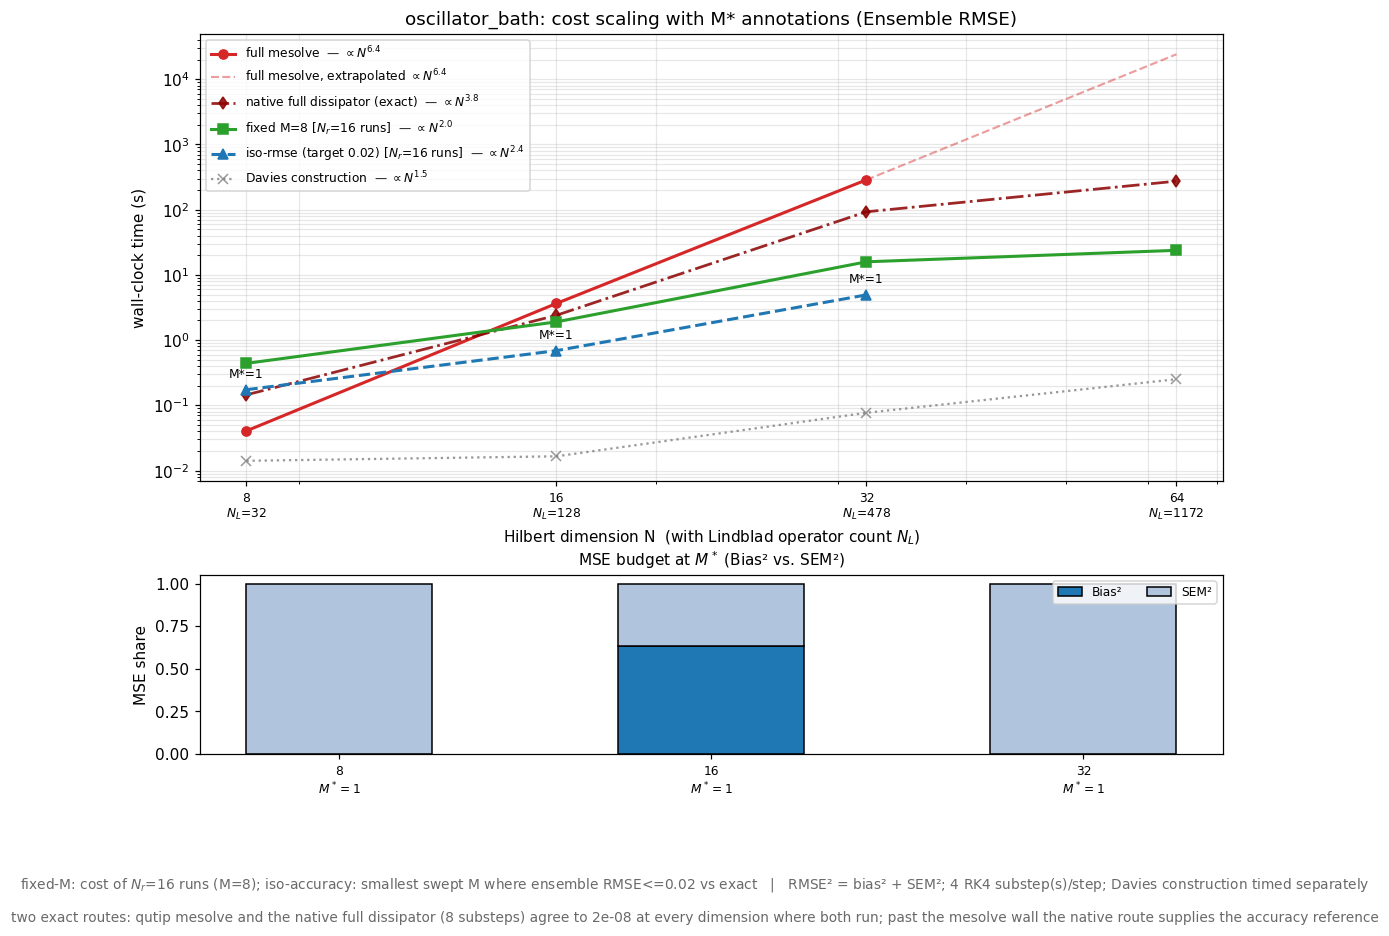
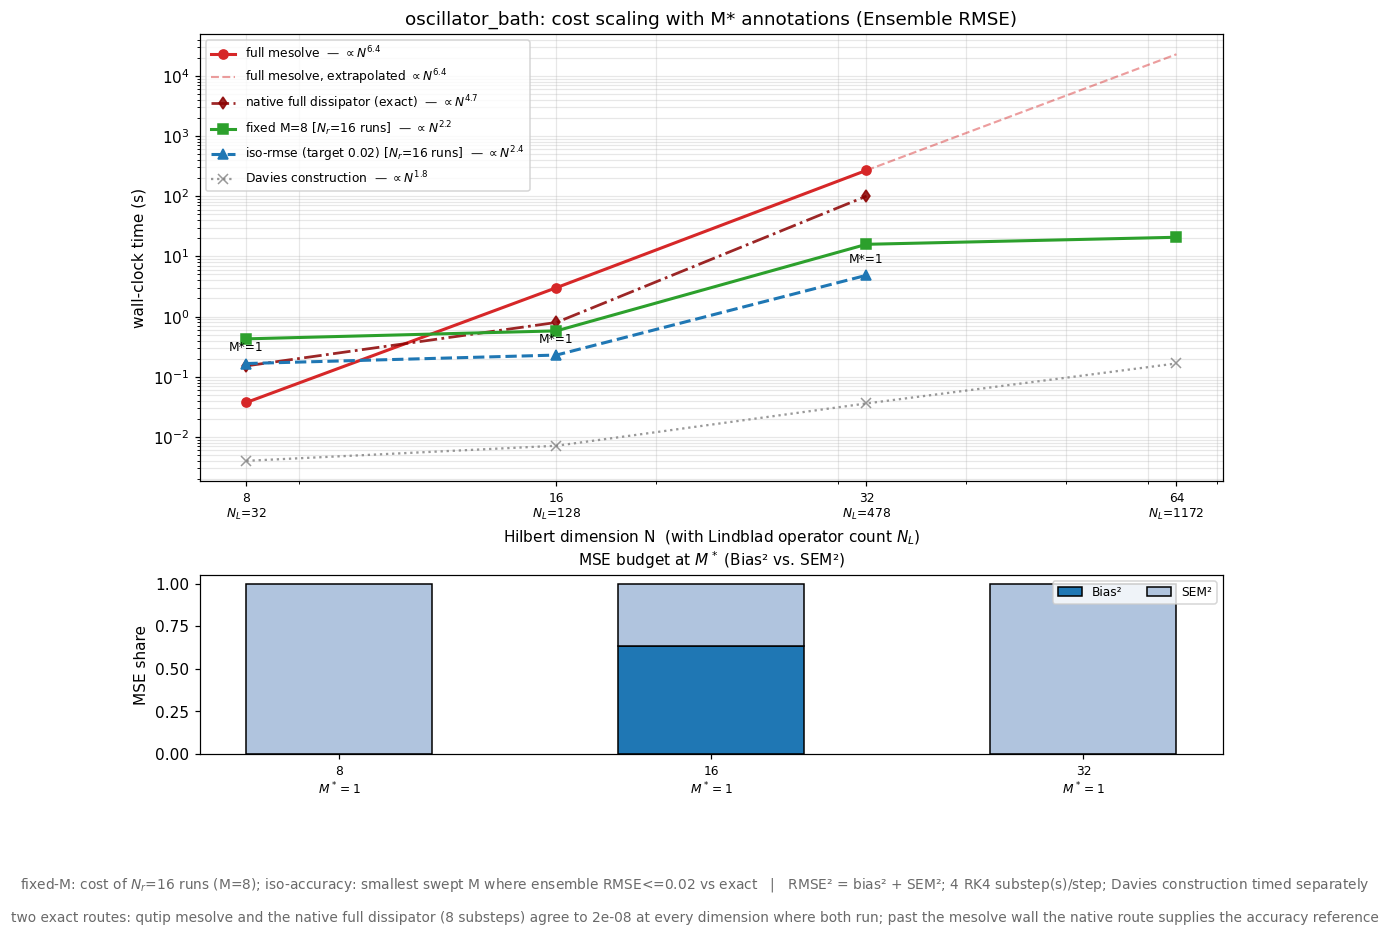
R2: plot native exact curve only at self-check-certified dimensions; regenerate oscillator under v19 enforcement

diff --git a/benchmarks/plot_cost_scaling.py b/benchmarks/plot_cost_scaling.py
@@ -180,7 +180,20 @@ def figure(name, doc, target, est_type, err_type):
         # better prefactor; it survives past the mesolve wall and is the
         # accuracy reference there. Its agreement with mesolve, wherever both
         # ran, is stated in the footer.
-        t_nat = as_array([p.get("t_native_ref") for p in points])
+        # Plot the native curve ONLY where its accuracy is CERTIFIED: mesolve
+        # ran here too (native matched it), or the substep-halving self-check
+        # passed. An uncertifiable solve is withheld -- a wall-clock time whose
+        # answer you cannot trust is not a result. (Hence the curve stops at
+        # dim 32 on the oscillator: dim 64's self-check failed.)
+        def _certified(p):
+            if p.get("t_native_ref") is None:
+                return False
+            if str(p.get("reference_method", "")) == "mesolve":
+                return True
+            sc = p.get("native_ref_selfcheck")
+            return bool(sc and sc.get("passed"))
+        t_nat = as_array([p.get("t_native_ref") if _certified(p) else None
+                          for p in points])
         nn = np.isfinite(t_nat)
         if nn.any():
             ax_main.loglog(dims[nn], t_nat[nn], "d-.", color="darkred", lw=1.8,

diff --git a/benchmarks/probe64.py b/benchmarks/probe64.py
@@ -1,0 +1,9 @@
+import json
+d = json.load(open('data/cost_scaling_oscillator_bath.json'))
+p = [q for q in d['points'] if q['dim']==64][0]
+print('ref_method:', p.get('reference_method'))
+print('t_native_ref:', p.get('t_native_ref'))
+print('selfcheck:', p.get('native_ref_selfcheck'))
+print('sweep rows:')
+for e in p['m_sweep'] or []:
+    print('  ', {k: e.get(k) for k in ('M','rmse','diverged')})
